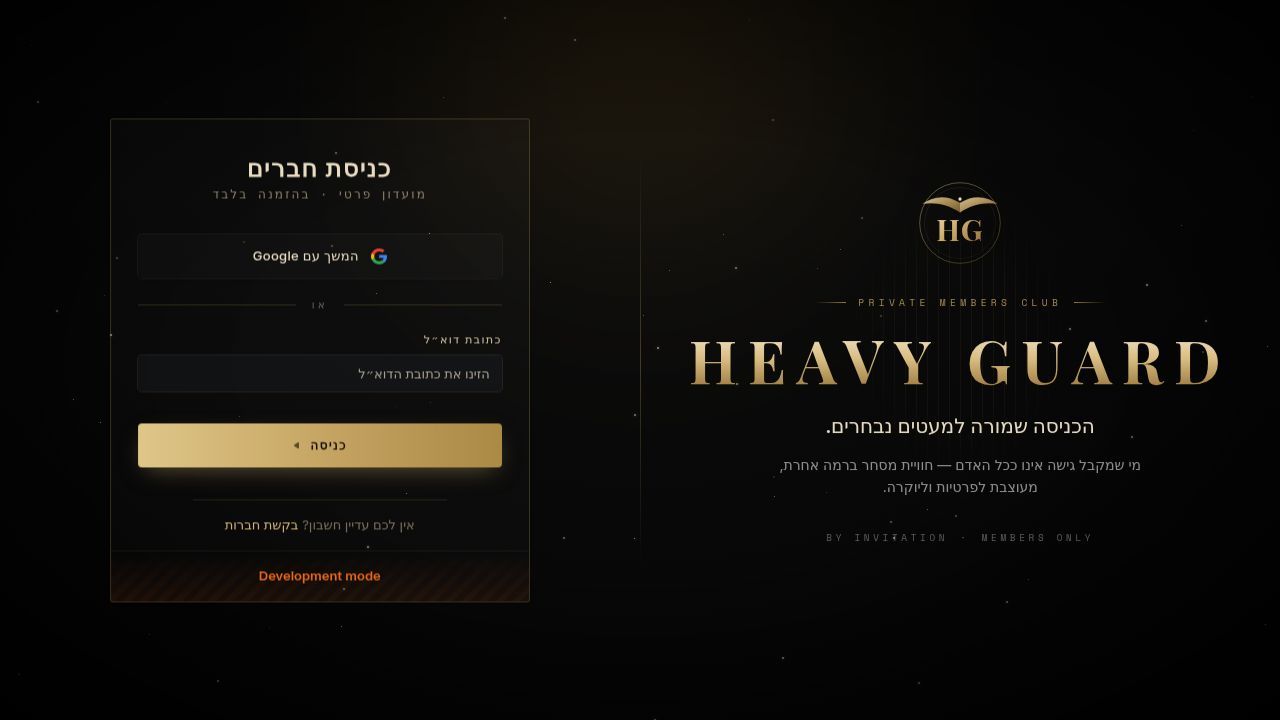
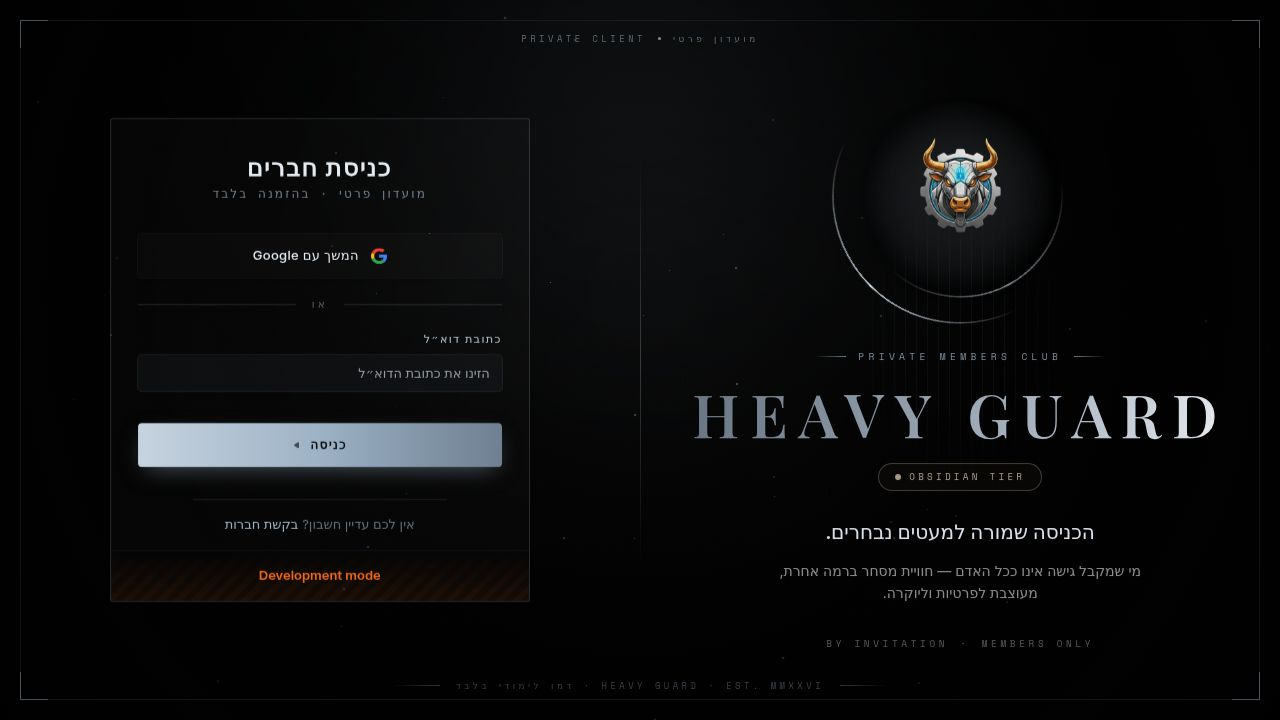
Add sorting functionality to the Polymarket contracts table
Implement sortable table headers for PROB, YES, VOL, and QUESTION columns in the Polymarket contracts page, allowing users to reorder data by clicking column headers.

Replit-Commit-Author: Agent
Replit-Commit-Session-Id: bf375281-ba89-49a9-b75c-c68e906c7744
Replit-Commit-Checkpoint-Type: full_checkpoint
Replit-Commit-Event-Id: 6f8e61de-077c-42df-a8ef-643a8ff1557a
Replit-Commit-Screenshot-Url: https://storage.googleapis.com/screenshot-production-us-central1/078159b9-df19-4eea-b399-6c4569ff1430/bf375281-ba89-49a9-b75c-c68e906c7744/ohpti2m
Replit-Helium-Checkpoint-Created: true

diff --git a/artifacts/crypto-arb/src/pages/markets.tsx b/artifacts/crypto-arb/src/pages/markets.tsx
@@ -17,8 +17,8 @@ import {
 import { Input } from "@/components/ui/input";
 import { Switch } from "@/components/ui/switch";
 import { Slider } from "@/components/ui/slider";
-import { useState, useCallback } from "react";
-import { Search, X, ExternalLink, TrendingUp, TrendingDown, ChevronRight, FlaskConical, Trophy, AlertCircle, CheckCircle2, Bot } from "lucide-react";
+import { useState, useCallback, useMemo } from "react";
+import { Search, X, ExternalLink, TrendingUp, TrendingDown, ChevronRight, ChevronUp, ChevronDown, FlaskConical, Trophy, AlertCircle, CheckCircle2, Bot } from "lucide-react";
 import { Tabs, TabsList, TabsTrigger } from "@/components/ui/tabs";
 import { Badge } from "@/components/ui/badge";
 import { Button } from "@/components/ui/button";
@@ -437,6 +437,16 @@ export default function Markets() {
   const [search, setSearch]           = useState("");
   const [assetFilter, setAssetFilter] = useState<GetPolymarketMarketsAsset>("ALL");
   const [selected, setSelected]       = useState<PolymarketMarket | null>(null);
+  const [sort, setSort]               = useState<"question" | "probability" | "yesPrice" | "volume">("probability");
+  const [sortDir, setSortDir]         = useState<"asc" | "desc">("desc");
+
+  const toggleSort = useCallback(
+    (field: typeof sort) => {
+      if (sort === field) setSortDir((d) => (d === "asc" ? "desc" : "asc"));
+      else { setSort(field); setSortDir("desc"); }
+    },
+    [sort],
+  );
 
   const { data: markets, isLoading } = useGetPolymarketMarkets(
     { asset: assetFilter, search },
@@ -447,6 +457,28 @@ export default function Markets() {
       },
     },
   );
+
+  const sortedMarkets = useMemo(() => {
+    const list = [...(markets ?? [])];
+    list.sort((a, b) => {
+      let va: number | string = 0;
+      let vb: number | string = 0;
+      if (sort === "question") { va = a.question; vb = b.question; }
+      else if (sort === "probability") { va = a.yesProbabilityPercent; vb = b.yesProbabilityPercent; }
+      else if (sort === "yesPrice") { va = a.yesPrice; vb = b.yesPrice; }
+      else if (sort === "volume") { va = a.volume ?? 0; vb = b.volume ?? 0; }
+      if (typeof va === "string") return sortDir === "asc" ? va.localeCompare(vb as string) : (vb as string).localeCompare(va);
+      return sortDir === "asc" ? (va as number) - (vb as number) : (vb as number) - (va as number);
+    });
+    return list;
+  }, [markets, sort, sortDir]);
+
+  function SortIcon({ field }: { field: typeof sort }) {
+    if (sort !== field) return <ChevronUp className="h-3 w-3 opacity-20" />;
+    return sortDir === "asc"
+      ? <ChevronUp className="h-3 w-3 text-primary" />
+      : <ChevronDown className="h-3 w-3 text-primary" />;
+  }
 
   return (
     <div className="flex h-full overflow-hidden">
@@ -495,10 +527,30 @@ export default function Markets() {
                   <TableHeader className="bg-secondary/50">
                     <TableRow>
                       <TableHead className="font-mono text-[10px] w-16 pl-4">ASSET</TableHead>
-                      <TableHead className="font-mono text-[10px]">QUESTION</TableHead>
-                      <TableHead className="text-right font-mono text-[10px]">PROB</TableHead>
-                      <TableHead className="text-right font-mono text-[10px] hidden sm:table-cell">YES</TableHead>
-                      <TableHead className="text-right font-mono text-[10px] hidden sm:table-cell pr-4">VOL</TableHead>
+                      <TableHead
+                        className="font-mono text-[10px] cursor-pointer select-none hover:text-foreground"
+                        onClick={() => toggleSort("question")}
+                      >
+                        <div className="flex items-center gap-1">QUESTION <SortIcon field="question" /></div>
+                      </TableHead>
+                      <TableHead
+                        className="text-right font-mono text-[10px] cursor-pointer select-none hover:text-foreground"
+                        onClick={() => toggleSort("probability")}
+                      >
+                        <div className="flex items-center justify-end gap-1">PROB <SortIcon field="probability" /></div>
+                      </TableHead>
+                      <TableHead
+                        className="text-right font-mono text-[10px] hidden sm:table-cell cursor-pointer select-none hover:text-foreground"
+                        onClick={() => toggleSort("yesPrice")}
+                      >
+                        <div className="flex items-center justify-end gap-1">YES <SortIcon field="yesPrice" /></div>
+                      </TableHead>
+                      <TableHead
+                        className="text-right font-mono text-[10px] hidden sm:table-cell pr-4 cursor-pointer select-none hover:text-foreground"
+                        onClick={() => toggleSort("volume")}
+                      >
+                        <div className="flex items-center justify-end gap-1">VOL <SortIcon field="volume" /></div>
+                      </TableHead>
                       <TableHead className="w-6 pr-4"></TableHead>
                     </TableRow>
                   </TableHeader>
@@ -522,7 +574,7 @@ export default function Markets() {
                             </TableCell>
                           </TableRow>
                         )
-                      : markets.map((m, i) => {
+                      : sortedMarkets.map((m, i) => {
                           const isSelected = selected?.conditionId === m.conditionId;
                           return (
                             <TableRow